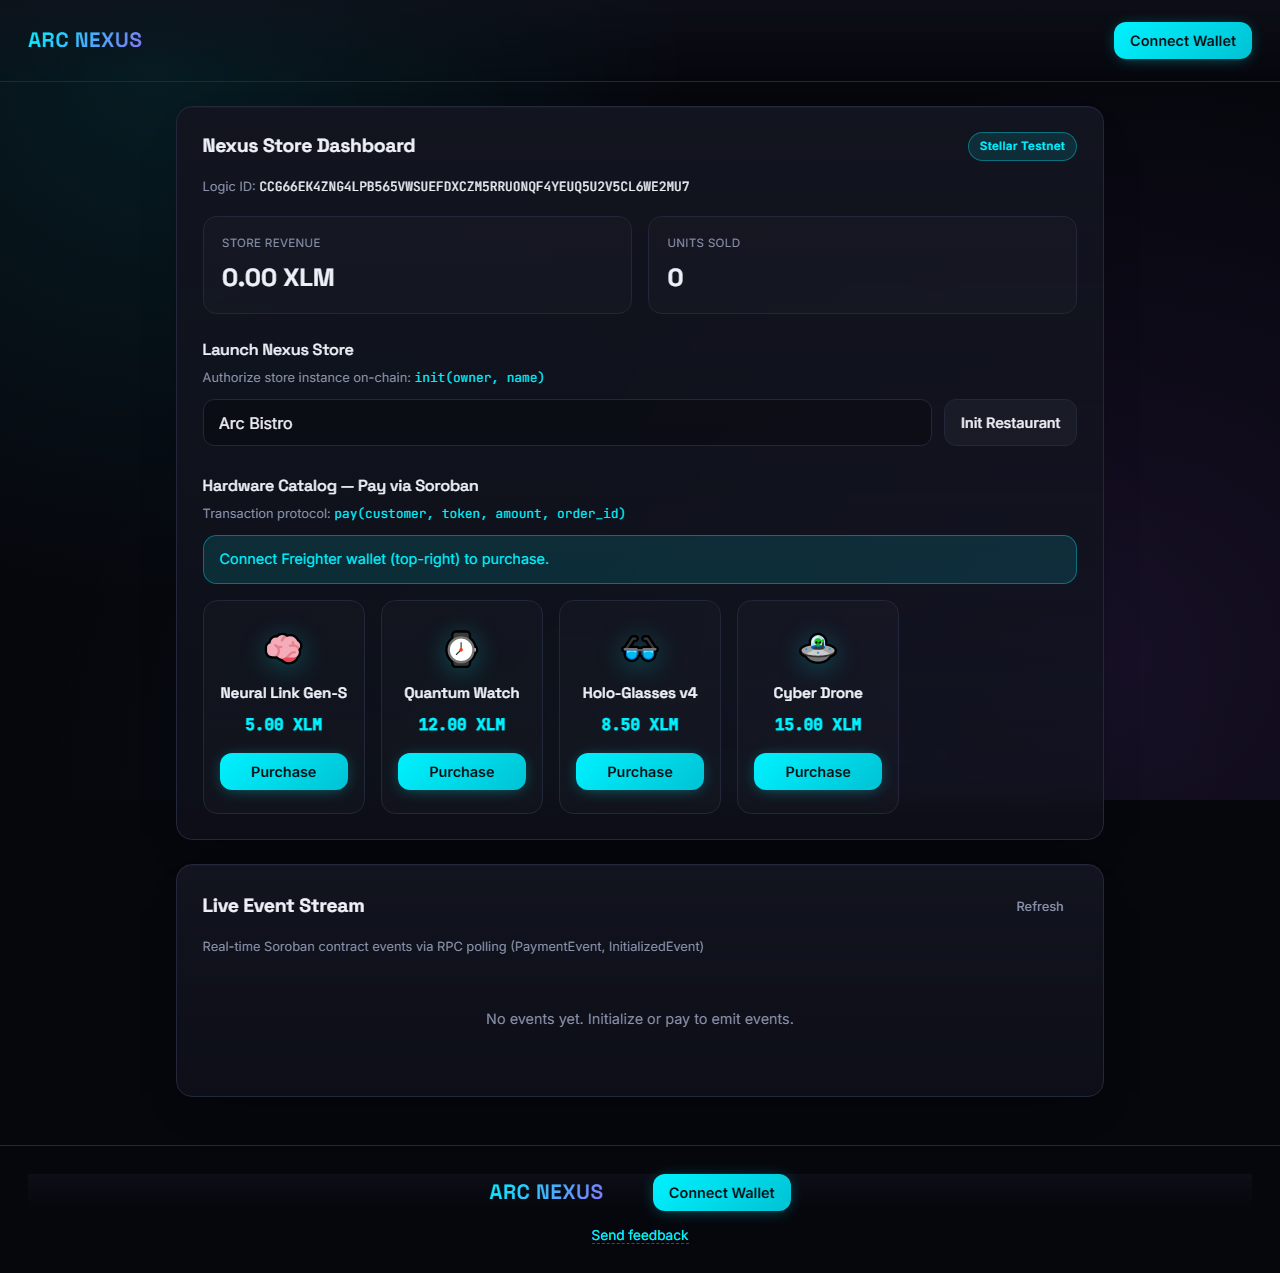
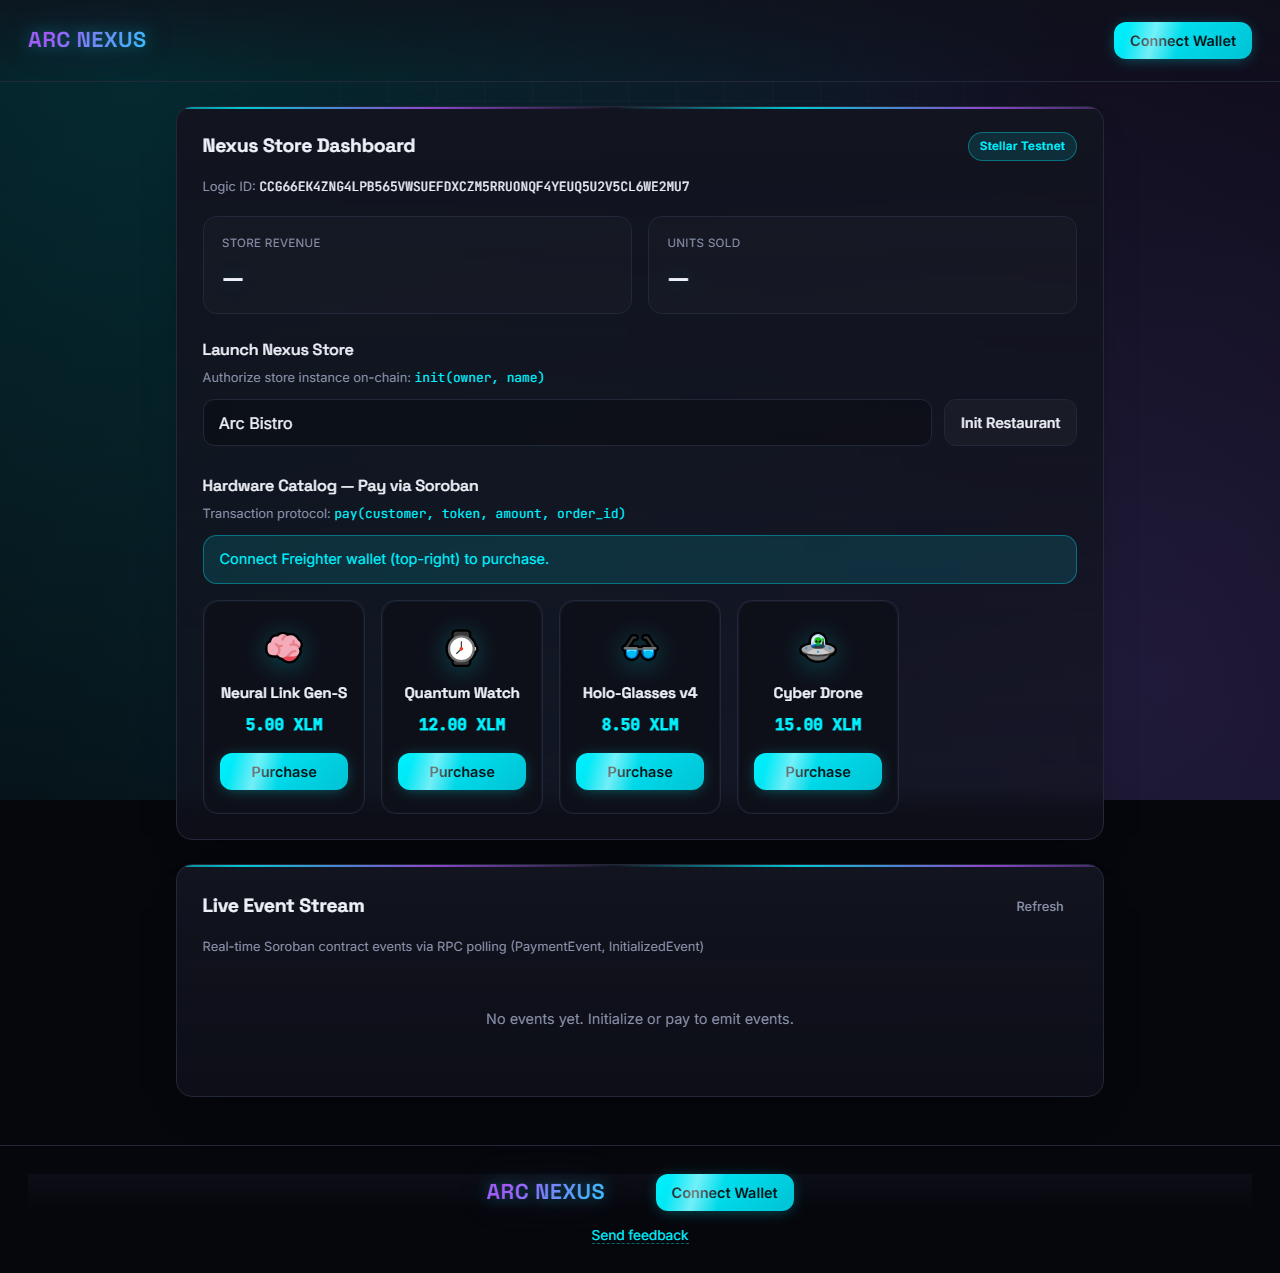
Fix Bad union switch on stats polling; go big on the UI overhaul
Bug fix:
- simulateContractCall used a permanently-unfunded placeholder account as
  the simulation source. The current testnet RPC's simulation response
  includes account-state fields that fail to XDR-decode for a source
  account that doesn't exist on the ledger at all - reliably threw
  "Bad union switch: 1" on every 10s stats poll (verified via automated
  browser console check before/after).
- getContractBalance/getOrderCount now require the connected wallet's
  address as the simulation source, and return null (not 0) with no RPC
  call at all when no wallet is connected yet, instead of "unknown" being
  indistinguishable from "actually zero".
- Added a friendly formatStellarError case for the same error string when
  it surfaces elsewhere (e.g. mid-payment) - it doesn't necessarily mean
  the transaction failed, so the message now points users to stellar.expert
  instead of showing a raw technical string.

UI:
- Animated aurora background + drifting grid overlay.
- Glowing, color-shifting gradient brand text.
- Shimmer sweep on primary buttons, animated top-accent line on panels.
- Menu cards: staggered entrance animation, spinning conic-gradient glow
  border + subtle 3D tilt on hover, floating emoji on hover.
- Pulsing wallet-connected indicator, glow on stat values and modal.

diff --git a/src/index.css b/src/index.css
@@ -28,16 +28,44 @@ html {
   @apply scroll-smooth;
 }
 
+@keyframes aurora {
+  0%, 100% { background-position: 12% 8%, 88% 82%, 50% 100%; }
+  50% { background-position: 22% 18%, 78% 72%, 45% 90%; }
+}
+
+@keyframes gridDrift {
+  from { background-position: 0 0; }
+  to { background-position: 48px 48px; }
+}
+
 body {
   min-height: 100vh;
   background: var(--bg);
   color: var(--text-primary);
   font-family: var(--font-body);
+  position: relative;
+  isolation: isolate;
   background-image:
-    radial-gradient(circle at 12% 8%, rgba(0, 242, 255, 0.09), transparent 40%),
-    radial-gradient(circle at 88% 82%, rgba(168, 85, 247, 0.1), transparent 45%),
-    radial-gradient(circle at 50% 100%, rgba(0, 242, 255, 0.04), transparent 60%);
+    radial-gradient(circle at 12% 8%, rgba(0, 242, 255, 0.14), transparent 40%),
+    radial-gradient(circle at 88% 82%, rgba(168, 85, 247, 0.16), transparent 45%),
+    radial-gradient(circle at 50% 100%, rgba(0, 242, 255, 0.06), transparent 60%);
+  background-size: 180% 180%, 180% 180%, 180% 180%;
   background-attachment: fixed;
+  animation: aurora 18s ease-in-out infinite;
+}
+
+body::before {
+  content: '';
+  position: fixed;
+  inset: 0;
+  z-index: -1;
+  pointer-events: none;
+  background-image:
+    linear-gradient(rgba(255, 255, 255, 0.035) 1px, transparent 1px),
+    linear-gradient(90deg, rgba(255, 255, 255, 0.035) 1px, transparent 1px);
+  background-size: 48px 48px;
+  mask-image: radial-gradient(ellipse 80% 60% at 50% 0%, black 0%, transparent 75%);
+  animation: gridDrift 40s linear infinite;
 }
 
 ::selection {
@@ -94,17 +122,35 @@ h1, h2, h3, h4 {
   transform: none;
 }
 
+@keyframes shimmer {
+  from { transform: translateX(-120%) skewX(-15deg); }
+  to { transform: translateX(220%) skewX(-15deg); }
+}
+
 .btn-primary {
   @apply btn;
   background: linear-gradient(135deg, var(--accent-color), #00c2d4);
   color: #031014;
   font-weight: 600;
   box-shadow: 0 2px 16px -4px rgba(0, 242, 255, 0.45);
+  position: relative;
+  overflow: hidden;
+}
+
+.btn-primary::after {
+  content: '';
+  position: absolute;
+  top: 0;
+  bottom: 0;
+  width: 40%;
+  background: linear-gradient(90deg, transparent, rgba(255, 255, 255, 0.45), transparent);
+  animation: shimmer 2.8s ease-in-out infinite;
+  pointer-events: none;
 }
 
 .btn-primary:hover:not(:disabled) {
   filter: brightness(1.08);
-  box-shadow: 0 4px 24px -2px rgba(0, 242, 255, 0.6);
+  box-shadow: 0 4px 28px -2px rgba(0, 242, 255, 0.75);
   transform: translateY(-1px);
 }
 
@@ -298,14 +344,26 @@ h1, h2, h3, h4 {
   z-index: 10;
 }
 
+@keyframes brandGlow {
+  0%, 100% { filter: drop-shadow(0 0 8px rgba(0, 242, 255, 0.35)) drop-shadow(0 0 18px rgba(168, 85, 247, 0.15)); }
+  50% { filter: drop-shadow(0 0 16px rgba(0, 242, 255, 0.55)) drop-shadow(0 0 28px rgba(168, 85, 247, 0.3)); }
+}
+
+@keyframes brandShift {
+  0%, 100% { background-position: 0% 50%; }
+  50% { background-position: 100% 50%; }
+}
+
 .brand h1 {
-  font-size: 1.3rem;
+  font-size: 1.35rem;
   font-weight: 700;
   letter-spacing: 0.02em;
-  background: linear-gradient(120deg, var(--accent-color), var(--accent-2));
+  background: linear-gradient(120deg, var(--accent-color), var(--accent-2), var(--accent-color));
+  background-size: 200% auto;
   -webkit-background-clip: text;
   background-clip: text;
   color: transparent;
+  animation: brandGlow 3.5s ease-in-out infinite, brandShift 6s ease-in-out infinite;
 }
 
 .wallet-actions {
@@ -333,19 +391,44 @@ h1, h2, h3, h4 {
   font-size: 0.85rem;
 }
 
+@keyframes dotPulse {
+  0%, 100% { box-shadow: 0 0 8px var(--success-color); }
+  50% { box-shadow: 0 0 16px var(--success-color), 0 0 4px var(--success-color); }
+}
+
 .dot {
   width: 8px;
   height: 8px;
   border-radius: 50%;
   background: var(--success-color);
-  box-shadow: 0 0 8px var(--success-color);
+  animation: dotPulse 2s ease-in-out infinite;
 }
 
 /* --- Panels --- */
+@keyframes accentSweep {
+  0% { background-position: -100% 0; }
+  100% { background-position: 200% 0; }
+}
+
 .panel {
   @apply card;
   padding: 1.6rem;
   animation: fadeIn 0.35s ease-out;
+  position: relative;
+  overflow: hidden;
+}
+
+.panel::before {
+  content: '';
+  position: absolute;
+  top: 0;
+  left: 0;
+  right: 0;
+  height: 2px;
+  background: linear-gradient(90deg, transparent, var(--accent-color), var(--accent-2), transparent);
+  background-size: 60% 100%;
+  animation: accentSweep 5s linear infinite;
+  opacity: 0.8;
 }
 
 .panel-header {
@@ -448,6 +531,7 @@ h1, h2, h3, h4 {
   font-weight: 700;
   font-family: var(--font-display);
   position: relative;
+  text-shadow: 0 0 20px rgba(0, 242, 255, 0.25);
 }
 
 /* --- Funding --- */
@@ -529,6 +613,16 @@ h1, h2, h3, h4 {
   margin-top: 1rem;
 }
 
+@keyframes cardIn {
+  from { opacity: 0; transform: translateY(16px) scale(0.96); }
+  to { opacity: 1; transform: translateY(0) scale(1); }
+}
+
+@keyframes emojiFloat {
+  0%, 100% { transform: translateY(0) rotate(0deg); }
+  50% { transform: translateY(-3px) rotate(-4deg); }
+}
+
 .menu-card {
   padding: 1.4rem 1rem;
   border-radius: 0.9rem;
@@ -539,13 +633,52 @@ h1, h2, h3, h4 {
   flex-direction: column;
   align-items: center;
   gap: 0.5rem;
-  transition: transform 0.2s ease, border-color 0.2s ease, box-shadow 0.2s ease;
+  position: relative;
+  overflow: hidden;
+  perspective: 600px;
+  opacity: 0;
+  animation: cardIn 0.5s cubic-bezier(0.16, 1, 0.3, 1) forwards;
+  animation-delay: calc(var(--i, 0) * 0.08s);
+  transition: transform 0.25s cubic-bezier(0.16, 1, 0.3, 1), border-color 0.25s ease, box-shadow 0.25s ease;
+}
+
+.menu-card::before {
+  content: '';
+  position: absolute;
+  inset: -1px;
+  border-radius: inherit;
+  background: conic-gradient(from 0deg, transparent 0 70%, var(--accent-color), var(--accent-2), transparent 100%);
+  opacity: 0;
+  transition: opacity 0.3s ease;
+  z-index: 0;
+  animation: spin 4s linear infinite;
+}
+
+.menu-card > * {
+  position: relative;
+  z-index: 1;
+}
+
+.menu-card::after {
+  content: '';
+  position: absolute;
+  inset: 1px;
+  border-radius: inherit;
+  background: rgba(15, 17, 26, 0.96);
+  z-index: 0;
 }
 
 .menu-card:hover {
-  transform: translateY(-4px);
-  border-color: rgba(0, 242, 255, 0.4);
-  box-shadow: 0 16px 32px -16px rgba(0, 242, 255, 0.25);
+  transform: translateY(-6px) rotateX(4deg) scale(1.02);
+  box-shadow: 0 20px 40px -16px rgba(0, 242, 255, 0.35);
+}
+
+.menu-card:hover::before {
+  opacity: 1;
+}
+
+.menu-card:hover .menu-emoji {
+  animation: emojiFloat 1.4s ease-in-out infinite;
 }
 
 .menu-emoji {
@@ -638,6 +771,7 @@ h1, h2, h3, h4 {
   max-width: 420px;
   padding: 1.6rem;
   animation: modalIn 0.25s cubic-bezier(0.16, 1, 0.3, 1);
+  box-shadow: 0 0 0 1px rgba(0, 242, 255, 0.15), 0 30px 60px -20px rgba(0, 242, 255, 0.25), 0 20px 40px -24px rgba(0, 0, 0, 0.7);
 }
 
 .modal-card h3 {

diff --git a/src/lib/soroban.js b/src/lib/soroban.js
@@ -37,23 +37,17 @@ function getContract() {
 
 /**
  * Simulate a read-only contract call (no wallet signature required).
+ * Requires a funded `sourceKey` — the current Soroban RPC's simulation
+ * response includes account-state fields that only decode cleanly for a
+ * source account that actually exists on the ledger (an unfunded/placeholder
+ * source reliably triggers a "Bad union switch" XDR parse error).
  */
-export async function simulateContractCall(functionName, args = []) {
-  const DUMMY_KEY = 'GAAAAAAAAAAAAAAAAAAAAAAAAAAAAAAAAAAAAAAAAAAAAAAAAAAAAWHF';
-
-  let acct;
-  try {
-    acct = await server.getAccount(DUMMY_KEY);
-  } catch {
-    acct = {
-      accountId: () => DUMMY_KEY,
-      sequenceNumber: () => '0',
-      incrementSequenceNumber: () => {},
-      sequence: '0',
-      account_id: DUMMY_KEY,
-    };
+export async function simulateContractCall(functionName, args = [], sourceKey) {
+  if (!sourceKey) {
+    throw new Error('simulateContractCall requires a funded sourceKey');
   }
 
+  const acct = await server.getAccount(sourceKey);
   const contract = getContract();
   const scArgs = args.map(scValFromSpec);
 
@@ -223,10 +217,15 @@ export async function payOrder(customer, tokenAddress, amount, orderId, publicKe
   );
 }
 
-/** Read contract balance via simulation */
-export async function getContractBalance() {
+/**
+ * Read contract balance via simulation. Requires a connected, funded wallet
+ * as the simulation source — returns null (not 0) when no wallet is
+ * connected yet, so the UI can tell "unknown" apart from "actually zero".
+ */
+export async function getContractBalance(sourceKey) {
+  if (!sourceKey) return null;
   try {
-    const sim = await simulateContractCall(CONTRACT_FUNCTIONS.GET_BALANCE, []);
+    const sim = await simulateContractCall(CONTRACT_FUNCTIONS.GET_BALANCE, [], sourceKey);
     if (sim.result?.retval) {
       return Number(scValToNative(sim.result.retval));
     }
@@ -237,10 +236,11 @@ export async function getContractBalance() {
   return 0;
 }
 
-/** Read order count via simulation */
-export async function getOrderCount() {
+/** Read order count via simulation. Requires a connected, funded wallet. */
+export async function getOrderCount(sourceKey) {
+  if (!sourceKey) return null;
   try {
-    const sim = await simulateContractCall(CONTRACT_FUNCTIONS.GET_ORDER_COUNT, []);
+    const sim = await simulateContractCall(CONTRACT_FUNCTIONS.GET_ORDER_COUNT, [], sourceKey);
     if (sim.result?.retval) {
       return Number(scValToNative(sim.result.retval));
     }

diff --git a/src/components/RestaurantPanel.jsx b/src/components/RestaurantPanel.jsx
@@ -47,10 +47,11 @@ export default function RestaurantPanel() {
   }, []);
 
   const refreshStats = useCallback(async () => {
+    if (!publicKey) return;
     try {
-      const bal = await getContractBalance();
-      const count = await getOrderCount();
-      
+      const bal = await getContractBalance(publicKey);
+      const count = await getOrderCount(publicKey);
+
       // Only update if we get valid numbers back
       if (typeof bal === 'number') setBalance(bal);
       if (typeof count === 'number') setOrderCount(count);
@@ -58,7 +59,7 @@ export default function RestaurantPanel() {
       console.warn('Refresh stats failed:', err.message);
       // Keep existing stats, don't crash
     }
-  }, []);
+  }, [publicKey]);
 
   const checkFunding = useCallback(async () => {
     if (!publicKey) {
@@ -416,8 +417,8 @@ export default function RestaurantPanel() {
         </div>
 
         <div className="menu-grid">
-          {MENU_ITEMS.map((item) => (
-            <article key={item.id} className="menu-card">
+          {MENU_ITEMS.map((item, index) => (
+            <article key={item.id} className="menu-card" style={{ '--i': index }}>
               <span className="menu-emoji">{item.emoji}</span>
               <h4>{item.name}</h4>
               <p className="menu-price">{(item.price / 1_000_000).toFixed(2)} XLM</p>

diff --git a/src/lib/account.js b/src/lib/account.js
@@ -82,6 +82,14 @@ export function formatStellarError(err) {
     return { message: msg.length > 200 ? `${msg.slice(0, 200)}…` : msg, needsFunding: false };
   }
 
+  if (/bad union switch/i.test(msg)) {
+    return {
+      message:
+        'Client-side response parsing hiccup — the transaction may have already gone through. Check your wallet address on stellar.expert before retrying to avoid a duplicate payment.',
+      needsFunding: false,
+    };
+  }
+
   return { message: msg, needsFunding: false };
 }
 
